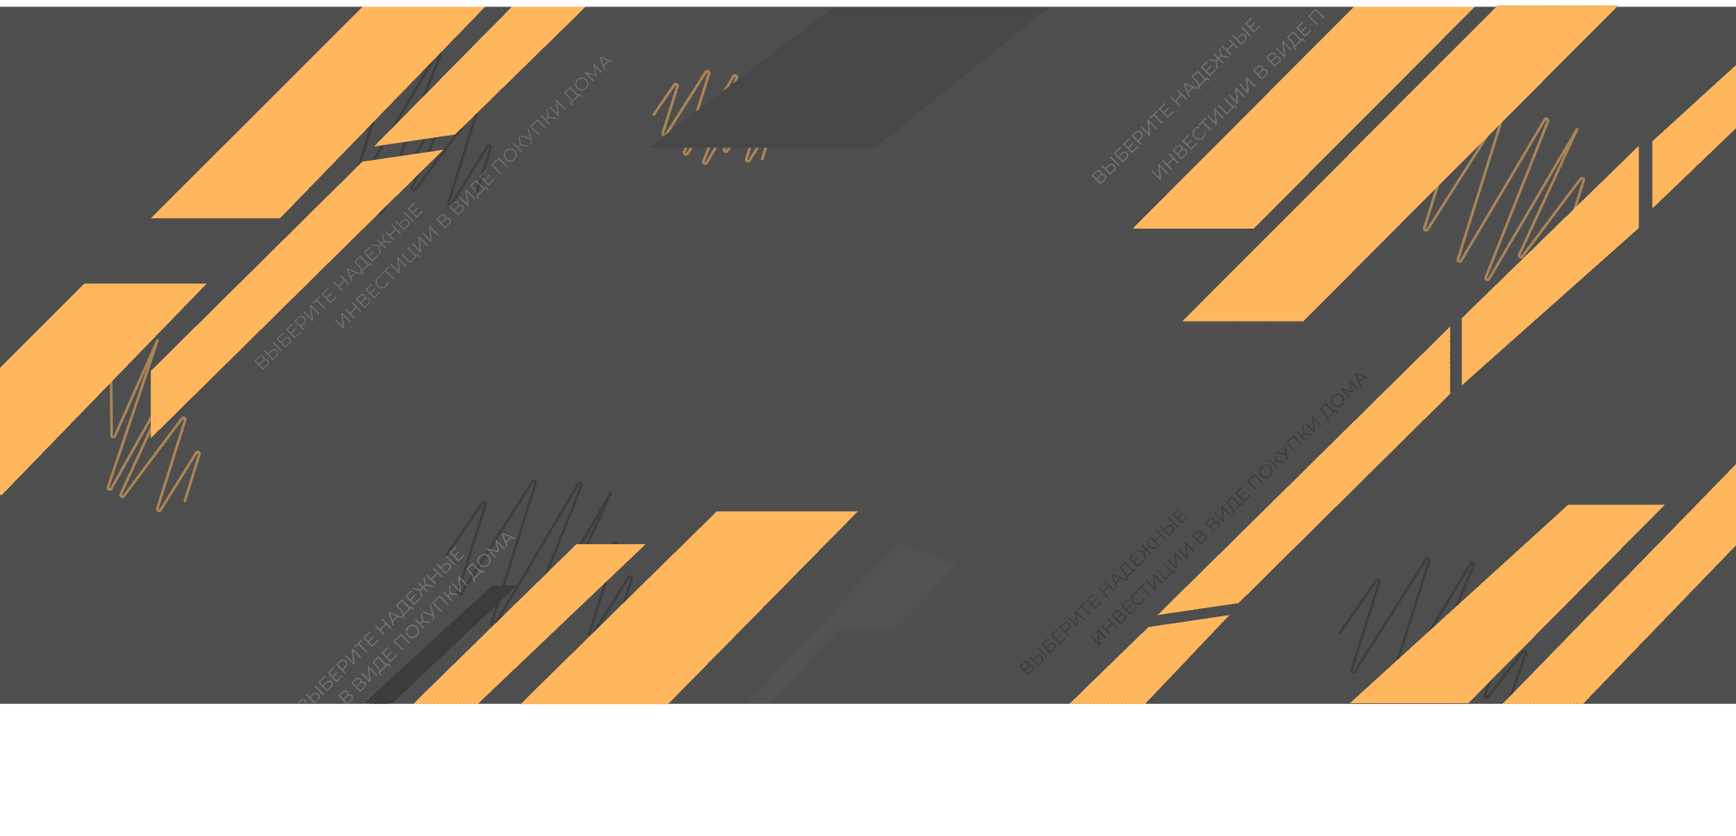
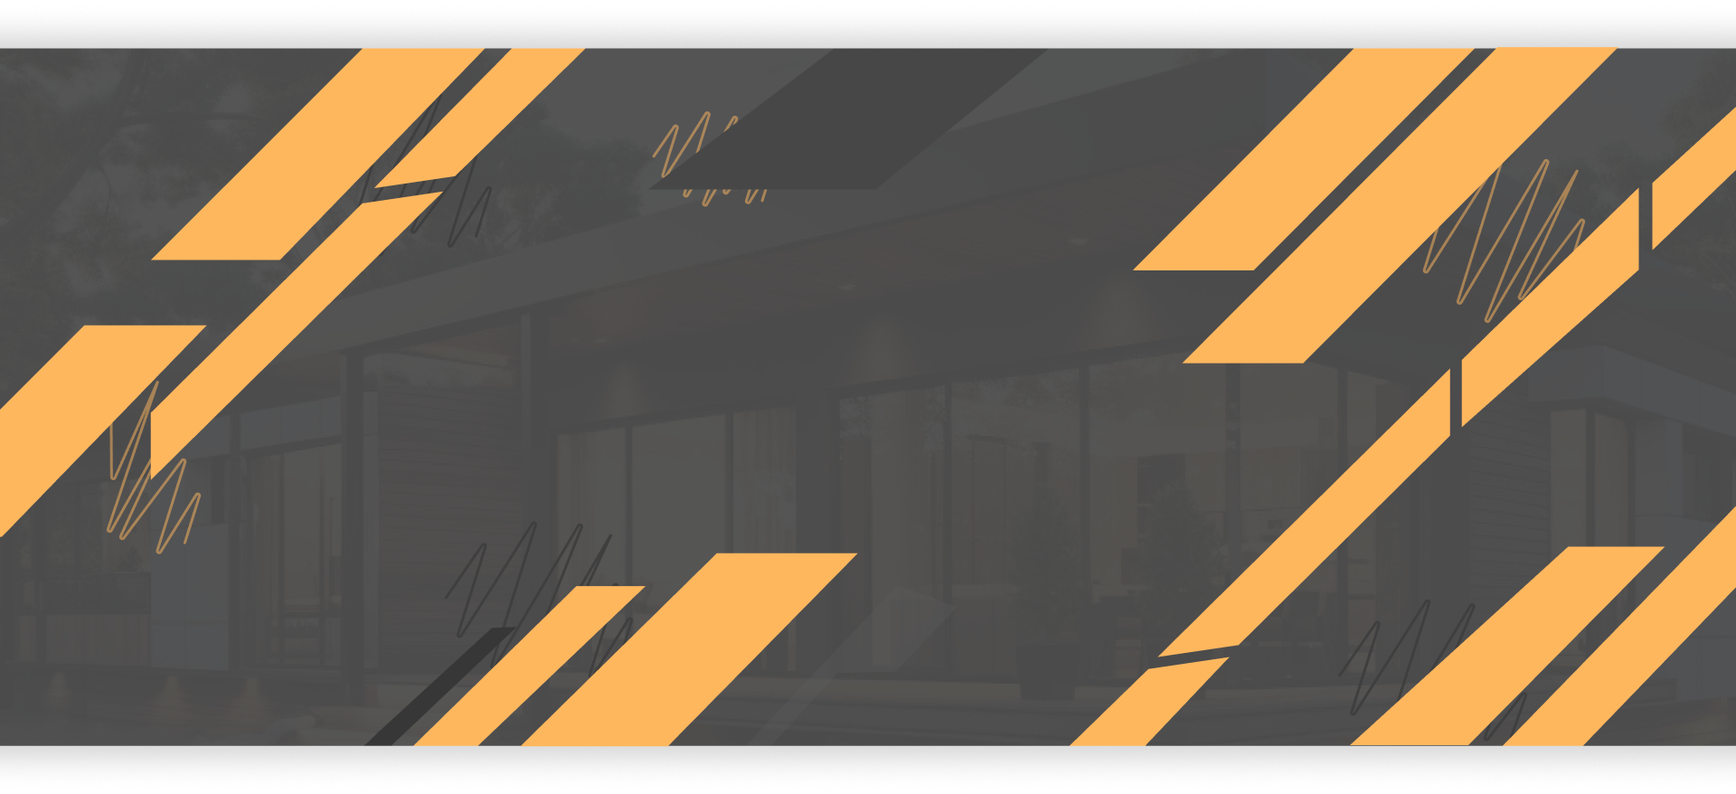
pr

diff --git a/info.html b/info.html
@@ -278,7 +278,93 @@
                                     <path d="M49 26L0.999997 26" stroke="#FFA637" stroke-width="2" stroke-linecap="round"/>
                                 </svg>
                             </div>
+                            <div class="accordion-content">На нашем сайте в разделе «Подробный расчёт» приведено обоснование стоимости аренды и цены конкурентов. Посмотрите этот раздел.</div>
+                        </div>
+                        <div class="accordion-item">
+                            <div class="accordion-title">
+                                <p>Почему вы уверены, что <br class="mob-br"> дома будут сдаваться за эти деньги?
+                                </p>
+                                <svg xmlns="http://www.w3.org/2000/svg" width="50" height="49" viewBox="0 0 50 49" fill="none">
+                                    <path d="M26 1L26 48" stroke="#FFA637" stroke-width="2" stroke-linecap="round"/>
+                                    <path d="M49 26L0.999997 26" stroke="#FFA637" stroke-width="2" stroke-linecap="round"/>
+                                </svg>
+                            </div>
                             <div class="accordion-content">Мы предлагаем различные финансовые решения, включая ипотеку или финансовые программы с низким первоначальным взносом, которые могут помочь вам приобрести дом для сдачи в аренду. Вы можете узнать более подробную информацию о наших финансовых вариантах у нашей команды продаж.</div>
+                        </div>
+                        <div class="accordion-item">
+                            <div class="accordion-title">
+                                <p>А будет ли спрос на аренду ваших домов?</p>
+                                <svg xmlns="http://www.w3.org/2000/svg" width="50" height="49" viewBox="0 0 50 49" fill="none">
+                                    <path d="M26 1L26 48" stroke="#FFA637" stroke-width="2" stroke-linecap="round"/>
+                                    <path d="M49 26L0.999997 26" stroke="#FFA637" stroke-width="2" stroke-linecap="round"/>
+                                </svg>
+                            </div>
+                            <div class="accordion-content">Будет. В ближайшие годы тренд на отдых внутри страны и на внутренний туризм будет только развиваться. За границу ехать дорого и небезопасно. Жители Москвы не очень любят отдыхать в регионах. А в Москве – около 15 миллионов. Куда им податься? Поэтому спрос на аренду наших домов на ближайшие несколько лет точно обеспечен. </div>
+                        </div>
+                        <div class="accordion-item">
+                            <div class="accordion-title">
+                                <p>Смогу ли я потом поменять  <br class="mob-br"> конструкцию коттеджа? 
+                                </p>
+                                <svg xmlns="http://www.w3.org/2000/svg" width="50" height="49" viewBox="0 0 50 49" fill="none">
+                                    <path d="M26 1L26 48" stroke="#FFA637" stroke-width="2" stroke-linecap="round"/>
+                                    <path d="M49 26L0.999997 26" stroke="#FFA637" stroke-width="2" stroke-linecap="round"/>
+                                </svg>
+                            </div>
+                            <div class="accordion-content">Мы предлагаем различные финансовые решения, включая ипотеку или финансовые программы с низким первоначальным взносом, которые могут помочь вам приобрести дом для сдачи в аренду. Вы можете узнать более подробную информацию о наших финансовых вариантах у нашей команды продаж.</div>
+                        </div>
+                        <div class="accordion-item">
+                            <div class="accordion-title">
+                                <p>Можно ли купить ваш мини-коттедж  <br class="mob-br"> без первоначального взноса? 
+                                </p>
+                                <svg xmlns="http://www.w3.org/2000/svg" width="50" height="49" viewBox="0 0 50 49" fill="none">
+                                    <path d="M26 1L26 48" stroke="#FFA637" stroke-width="2" stroke-linecap="round"/>
+                                    <path d="M49 26L0.999997 26" stroke="#FFA637" stroke-width="2" stroke-linecap="round"/>
+                                </svg>
+                            </div>
+                            <div class="accordion-content">Да, это возможно. Это будет зависеть от размера одобренного вам ипотечного кредита в банке</div>
+                        </div>
+                        <div class="accordion-item">
+                            <div class="accordion-title">
+                                <p>Смогу ли я сдавать мой дом  <br class="mob-br"> в аренду без Управляющей Компании? 
+                                </p>
+                                <svg xmlns="http://www.w3.org/2000/svg" width="50" height="49" viewBox="0 0 50 49" fill="none">
+                                    <path d="M26 1L26 48" stroke="#FFA637" stroke-width="2" stroke-linecap="round"/>
+                                    <path d="M49 26L0.999997 26" stroke="#FFA637" stroke-width="2" stroke-linecap="round"/>
+                                </svg>
+                            </div>
+                            <div class="accordion-content">Да, конечно. Если у вас есть возможность взять на себя все вопросы по обслуживанию дома и гостей. Если у вас нет времени на это или желания, то Управляющей Кампания возьмет на себя рекламу, встречу гостей, сервис, уборку, охрану и своевременную оплату. </div>
+                        </div>
+                        <div class="accordion-item">
+                            <div class="accordion-title">
+                                <p>Могу ли я сам жить  <br class="mob-br">коттедже, например, летом, а в остальное время его сдавать через Управляющую компанию. 
+                                </p>
+                                <svg xmlns="http://www.w3.org/2000/svg" width="50" height="49" viewBox="0 0 50 49" fill="none">
+                                    <path d="M26 1L26 48" stroke="#FFA637" stroke-width="2" stroke-linecap="round"/>
+                                    <path d="M49 26L0.999997 26" stroke="#FFA637" stroke-width="2" stroke-linecap="round"/>
+                                </svg>
+                            </div>
+                            <div class="accordion-content">Мы предлагаем различные финансовые решения, включая ипотеку или финансовые программы с низким первоначальным взносом, которые могут помочь вам приобрести дом для сдачи в аренду. Вы можете узнать более подробную информацию о наших финансовых вариантах у нашей команды продаж.</div>
+                        </div>
+                        <div class="accordion-item">
+                            <div class="accordion-title">
+                                <p>Что, если прогнозируемая  <br class="mob-br"> арендная доходность не оправдается?
+                                </p>
+                                <svg xmlns="http://www.w3.org/2000/svg" width="50" height="49" viewBox="0 0 50 49" fill="none">
+                                    <path d="M26 1L26 48" stroke="#FFA637" stroke-width="2" stroke-linecap="round"/>
+                                    <path d="M49 26L0.999997 26" stroke="#FFA637" stroke-width="2" stroke-linecap="round"/>
+                                </svg>
+                            </div>
+                            <div class="accordion-content">Если в какой-то месяц в межсезонье и случится уменьшение арендного дохода, то это точно будет компенсировано другими более успешными месяцами. В посёлке много внимания уделяется вопросу привлечения арендаторов в межсезонье – осенью и весной. Для этого и задуман термально-банный парк, детский центр, служба проката, проведение различных фестивалей и мероприятий в том числе и корпоративных и т. п.</div>
+                        </div>
+                        <div class="accordion-item">
+                            <div class="accordion-title">
+                                <p>Могу ли я продать свой дом, <br class="mob-br"> если мне это, вдруг, понадобится? </p>
+                                <svg xmlns="http://www.w3.org/2000/svg" width="50" height="49" viewBox="0 0 50 49" fill="none">
+                                    <path d="M26 1L26 48" stroke="#FFA637" stroke-width="2" stroke-linecap="round"/>
+                                    <path d="M49 26L0.999997 26" stroke="#FFA637" stroke-width="2" stroke-linecap="round"/>
+                                </svg>
+                            </div>
+                            <div class="accordion-content">Конечно. Вы в любой момент можете продать свой дом, так как он в вашей собственности. Но мы рекомендуем для получения максимального дохода делать это не раньше, чем через 2 – 3 года, когда весь посёлок будет застроен и благоустроен. В этом случае прибыль будет максимальной. </div>
                         </div>
                     </div>
                     <div class="faq-text__wrapper">

diff --git a/index.html b/index.html
@@ -173,7 +173,7 @@
                                 <path d="M16.9787 0C7.71761 0 0 7.47054 0 16.9787C0 20.5905 1.08036 23.8319 3.17976 26.8573L15.6823 46.5732C15.9909 47.067 16.4849 47.2831 16.9788 47.2831C17.4727 47.2831 17.9667 47.067 18.2753 46.5732L30.8396 26.7955C32.8771 23.8937 33.9575 20.498 33.9575 16.9787C33.9575 7.62489 26.3326 0 16.9787 0ZM16.9787 24.6963C12.7232 24.6963 9.26113 21.2342 9.26113 16.9787C9.26113 12.7232 12.7232 9.26113 16.9787 9.26113C21.2342 9.26113 24.6963 12.7232 24.6963 16.9787C24.6963 21.2342 21.2342 24.6963 16.9787 24.6963Z" fill="#FD3018"/>
                                 <path d="M16.9785 0V9.26113C21.234 9.26113 24.6961 12.7232 24.6961 16.9787C24.6961 21.2342 21.234 24.6963 16.9785 24.6963V47.2832C17.4723 47.2832 17.9664 47.0671 18.275 46.5733L30.8393 26.7955C32.8769 23.8937 33.9573 20.498 33.9573 16.9787C33.9573 7.62489 26.3324 0 16.9785 0Z" fill="#E61E14"/>
                                 </svg> Истринском водохранилище <br>
-                            с доходностью <span>40%</span> годовых               
+                            с доходностью <span>60%</span> годовых               
                         </h1>
                         <h3 class="section-main__subtitle">
                             Получайте 82 000 ежемесячного <br>
@@ -195,12 +195,25 @@
             </div>
             <section class="section-banner">
                 <picture>
-                    <img src="./assets/images/banner-bg-bg.png" alt="" class="banner-bg-bg">
-                </picture>
-                <picture>
                     <source media="(max-width: 1000px)" srcset="./assets/images/mobile-banner.png">
                     <img src="./assets/images/banner-bg.png" alt="" class="banner-bg">
                 </picture>
+                <div class="banner-1__item1">
+                    <p>Купите дом сейчас</p>
+                    <p>и перепродайте дороже</p>
+                </div>
+                <div class="banner-1__item2">
+                    <p>окупаемость</p>
+                    <p>дома 2 года</p>
+                </div>
+                <div class="banner-1__item3">
+                    <p>льготное</p>
+                    <p>субсидирование</p>
+                </div>
+                <div class="banner-1__item4">
+                    <p>ВЫБЕРИТЕ НАДЕЖНЫЕ</p>
+                    <p>ИНВЕСТИЦИИ В ВИДЕ ПОКУПКИ ДОМА</p>
+                </div>
                 <div class="decor-banner">
                     <img src="./assets/images/decor-banner1.svg" alt="" class="decor-banner1">
                     <img src="./assets/images/decor-banner2.svg" alt="" class="decor-banner2">
@@ -389,7 +402,7 @@
                                 <img src="./assets/images/how3.png" alt="">
                             </div>
                             <div class="how-item__Content">
-                                <h5 class="how-item__title">40% годовых</h5>
+                                <h5 class="how-item__title">60% годовых</h5>
                                 <p class="how-item__info">оход инвестора с учетом заполняемости и сезонности, ежемесячных ипотечных платежей</p>
                             </div>
                         </div>
@@ -656,10 +669,33 @@
                     <source media="(max-width: 1000px)" srcset="./assets/images/presentation-mob__bg.png">
                     <img src="./assets/images/banner-present-bg.png" alt="" class="presentation-bg">
                 </picture>
+                <div class="banner-2__item1">
+                    <p>Аренда через</p>
+                    <p>управляющую компанию</p>
+                </div>
+                <div class="banner-2__item2">
+                    <p>Пассивный доход</p>
+                </div>
+                <div class="banner-2__item3">
+                    <p>Льготная ипотека</p>
+                    <p>и минимальный первоначальный взнос</p>
+                </div>
+                <div class="banner-2__item4">
+                    <p>ВЫБЕРИТЕ НАДЕЖНЫЕ</p>
+                    <p>ИНВЕСТИЦИИ В ВИДЕ ПОКУПКИ ДОМА</p>
+                </div>
+                <div class="banner-2__item5">
+                    <p>ВЫБЕРИТЕ НАДЕЖНЫЕ</p>
+                    <p>ИНВЕСТИЦИИ В ВИДЕ ПОКУПКИ ДОМА</p>
+                </div>
+                <div class="banner-2__item6">
+                    <p>ВЫБЕРИТЕ НАДЕЖНЫЕ</p>
+                    <p>ИНВЕСТИЦИИ В ВИДЕ ПОКУПКИ ДОМА</p>
+                </div>
                     <div class="presentation-wrapper container">
                         <h3 class="present-title before-title">Получите подробную</h3>
                         <h3 class="present-title b-title">презентацию</h3>
-                        <h3 class="present-title">о коттеджном поселке</h3>
+                        <h3 class="present-title l-title">о коттеджном <br class="lap-br"> <span class="br-span">поселке</span></h3>
                     </div>
               </section>
               <section class="present-form">

diff --git a/assets/css/style.css b/assets/css/style.css
@@ -221,8 +221,8 @@ body.overflow{
     left: 0;
     right: 0;
     width: 100%;
-    height: 92rem;
-    z-index: 1;
+    height: 82.5rem;
+    z-index: 77;
 }
 .decor-banner{
     position: absolute;
@@ -1295,8 +1295,15 @@ main{
     position: absolute;
     top: -11rem;
     right: -13rem;
-    width: 120rem;
+    width: 110rem;
     height: 121.4rem;
+}
+.blur-green{
+    position: absolute;
+    top: -25rem;
+    left: -25rem;
+    width: 68.4rem;
+    height: 120rem;
 }
 .blur-contractor{
     position: absolute;
@@ -1810,7 +1817,8 @@ main{
     color: var(--black);
 }
 .faq {
-    height: 295rem;
+    height: auto;
+    padding-bottom: 15rem;
 }
 .faq-bg{
     top: -22rem;
@@ -1889,6 +1897,66 @@ main{
     right: 0;
     top: 9.3rem;
     height: 460rem;
+}
+.banner-1__item1{
+    position: absolute;
+    color: rgba(255, 255, 255, 0.17);
+    font-size: 2rem;
+    font-weight: 400;
+    line-height: 144.795%; /* 28.959px */
+    text-transform: uppercase;
+    z-index: 777;
+    left: 25rem;
+    top: 25rem;
+    transform: rotate(-44.738deg);
+}
+.banner-1__item1 p:nth-child(2){
+    margin-left: 10rem;
+}
+.banner-1__item2{
+    position: absolute;
+    color: rgba(255, 255, 255, 0.17);
+    font-size: 2rem;
+    font-weight: 400;
+    line-height: 144.795%; /* 28.959px */
+    text-transform: uppercase;
+    z-index: 777;
+    transform: rotate(-44.738deg);
+    top: 13rem;
+    right: 47rem;
+}
+.banner-1__item2 p:nth-child(2){
+    margin-left: 10rem;
+}
+.banner-1__item3{
+    position: absolute;
+    color: rgba(255, 255, 255, 0.17);
+    font-size: 2rem;
+    font-weight: 400;
+    line-height: 144.795%; /* 28.959px */
+    text-transform: uppercase;
+    z-index: 777;
+    transform: rotate(-44.738deg);
+    bottom: 7rem;
+    left: 33rem;
+}
+.banner-1__item3 p:nth-child(2){
+    margin-left: 5rem;
+}
+.banner-1__item4{
+    position: absolute;
+    color: rgba(0, 0, 0, 0.24);
+    font-size: 2rem;
+    font-weight: 400;
+    line-height: 144.795%; /* 28.959px */
+    text-transform: uppercase;
+    z-index: 777;
+    transform: rotate(-44.738deg);
+    bottom: 15rem;
+    right: 37rem;
+}
+.banner-1__item4 p:nth-child(2){
+    margin-left: 7rem;
 }
 .catalog{
     padding-top: 16.3rem;
@@ -2285,11 +2353,25 @@ main{
 }
 
 
-
+.lap-br{
+    display: none;
+}
 
 /* End footer */
 
 /* Start adaptive */
+
+@media (max-width: 1440px){
+   .lap-br{
+    display: block;
+   }
+   .br-span{
+    margin-left: 15rem;
+   }
+   .l-title{
+    margin-left: -10rem;
+   }
+}
 
 @media (max-width: 1000px) {
     html{
@@ -3219,6 +3301,15 @@ main{
     .contractor-text{
         font-size: 1.5rem;
     }
+    .l-title{
+        margin-left: 0;
+    }
+    .l-title br{
+        display: none !important;
+    }
+    .br-span{
+        margin-left: 0;
+    }
     .contractor-text br{
         display: none;
     }
@@ -3428,6 +3519,46 @@ main{
         box-shadow: -5px 0px 0px 0px #FFB75E;
         padding: 2.4rem;
     }
+    .banner-1__item1{
+        font-size: 0.9rem;
+        transform: rotate(295deg);
+        left: 4rem;
+        top: 7rem;
+    }
+    .banner-1__item1 p:nth-child(2) {
+        margin-left: 3rem;
+    }
+    .banner-1__item2{
+        font-size: 0.9rem;
+        transform: rotate(295deg);
+        top: 5rem;
+        right: 6.5rem;
+    }
+    .banner-1__item2 p:nth-child(2) {
+        margin-left: 3rem;
+    }
+    .banner-1__item3{
+        font-size: 0.9rem;
+        transform: rotate(295deg);
+        left: 4rem;
+        bottom: 4rem;
+    }
+    .banner-1__item3 p:nth-child(2) {
+        margin-left: 2rem;
+    }
+    .banner-1__item4{
+        font-size: 0.9rem;
+        transform: rotate(295deg);
+        left: 4rem;
+        bottom: 4rem;
+        width: auto;
+        width: 25rem;
+        left: 23rem;
+        bottom: 11rem;
+    }
+    .banner-1__item4 p:nth-child(2) {
+        margin-left: 3rem;
+    }
     .info-main__bg{
         top: 0;
         position: absolute;
@@ -3580,7 +3711,8 @@ main{
         right: -30rem;
     }
     .faq {
-        height: 210rem;
+        height: auto;
+        padding-bottom: 8rem;
     }
     .main-street{
         height: 45.7rem;

diff --git a/green-laynje.html b/green-laynje.html
@@ -184,6 +184,7 @@
                     <source media="(max-width: 1000px)" srcset="./assets/images/mobile-bg-cont.svg">
                     <img src="./assets/images/decor-contr.svg" alt="" class="decor-cont">
                 </picture>
+                <img src="./assets/images/green-blur1.png" alt="" class="blur-green">
                 <div class="contactor-wrapper container">
                     <h3 class="contractor-title">наш подрядчик</h3>
                     <p class="contractor-text">
